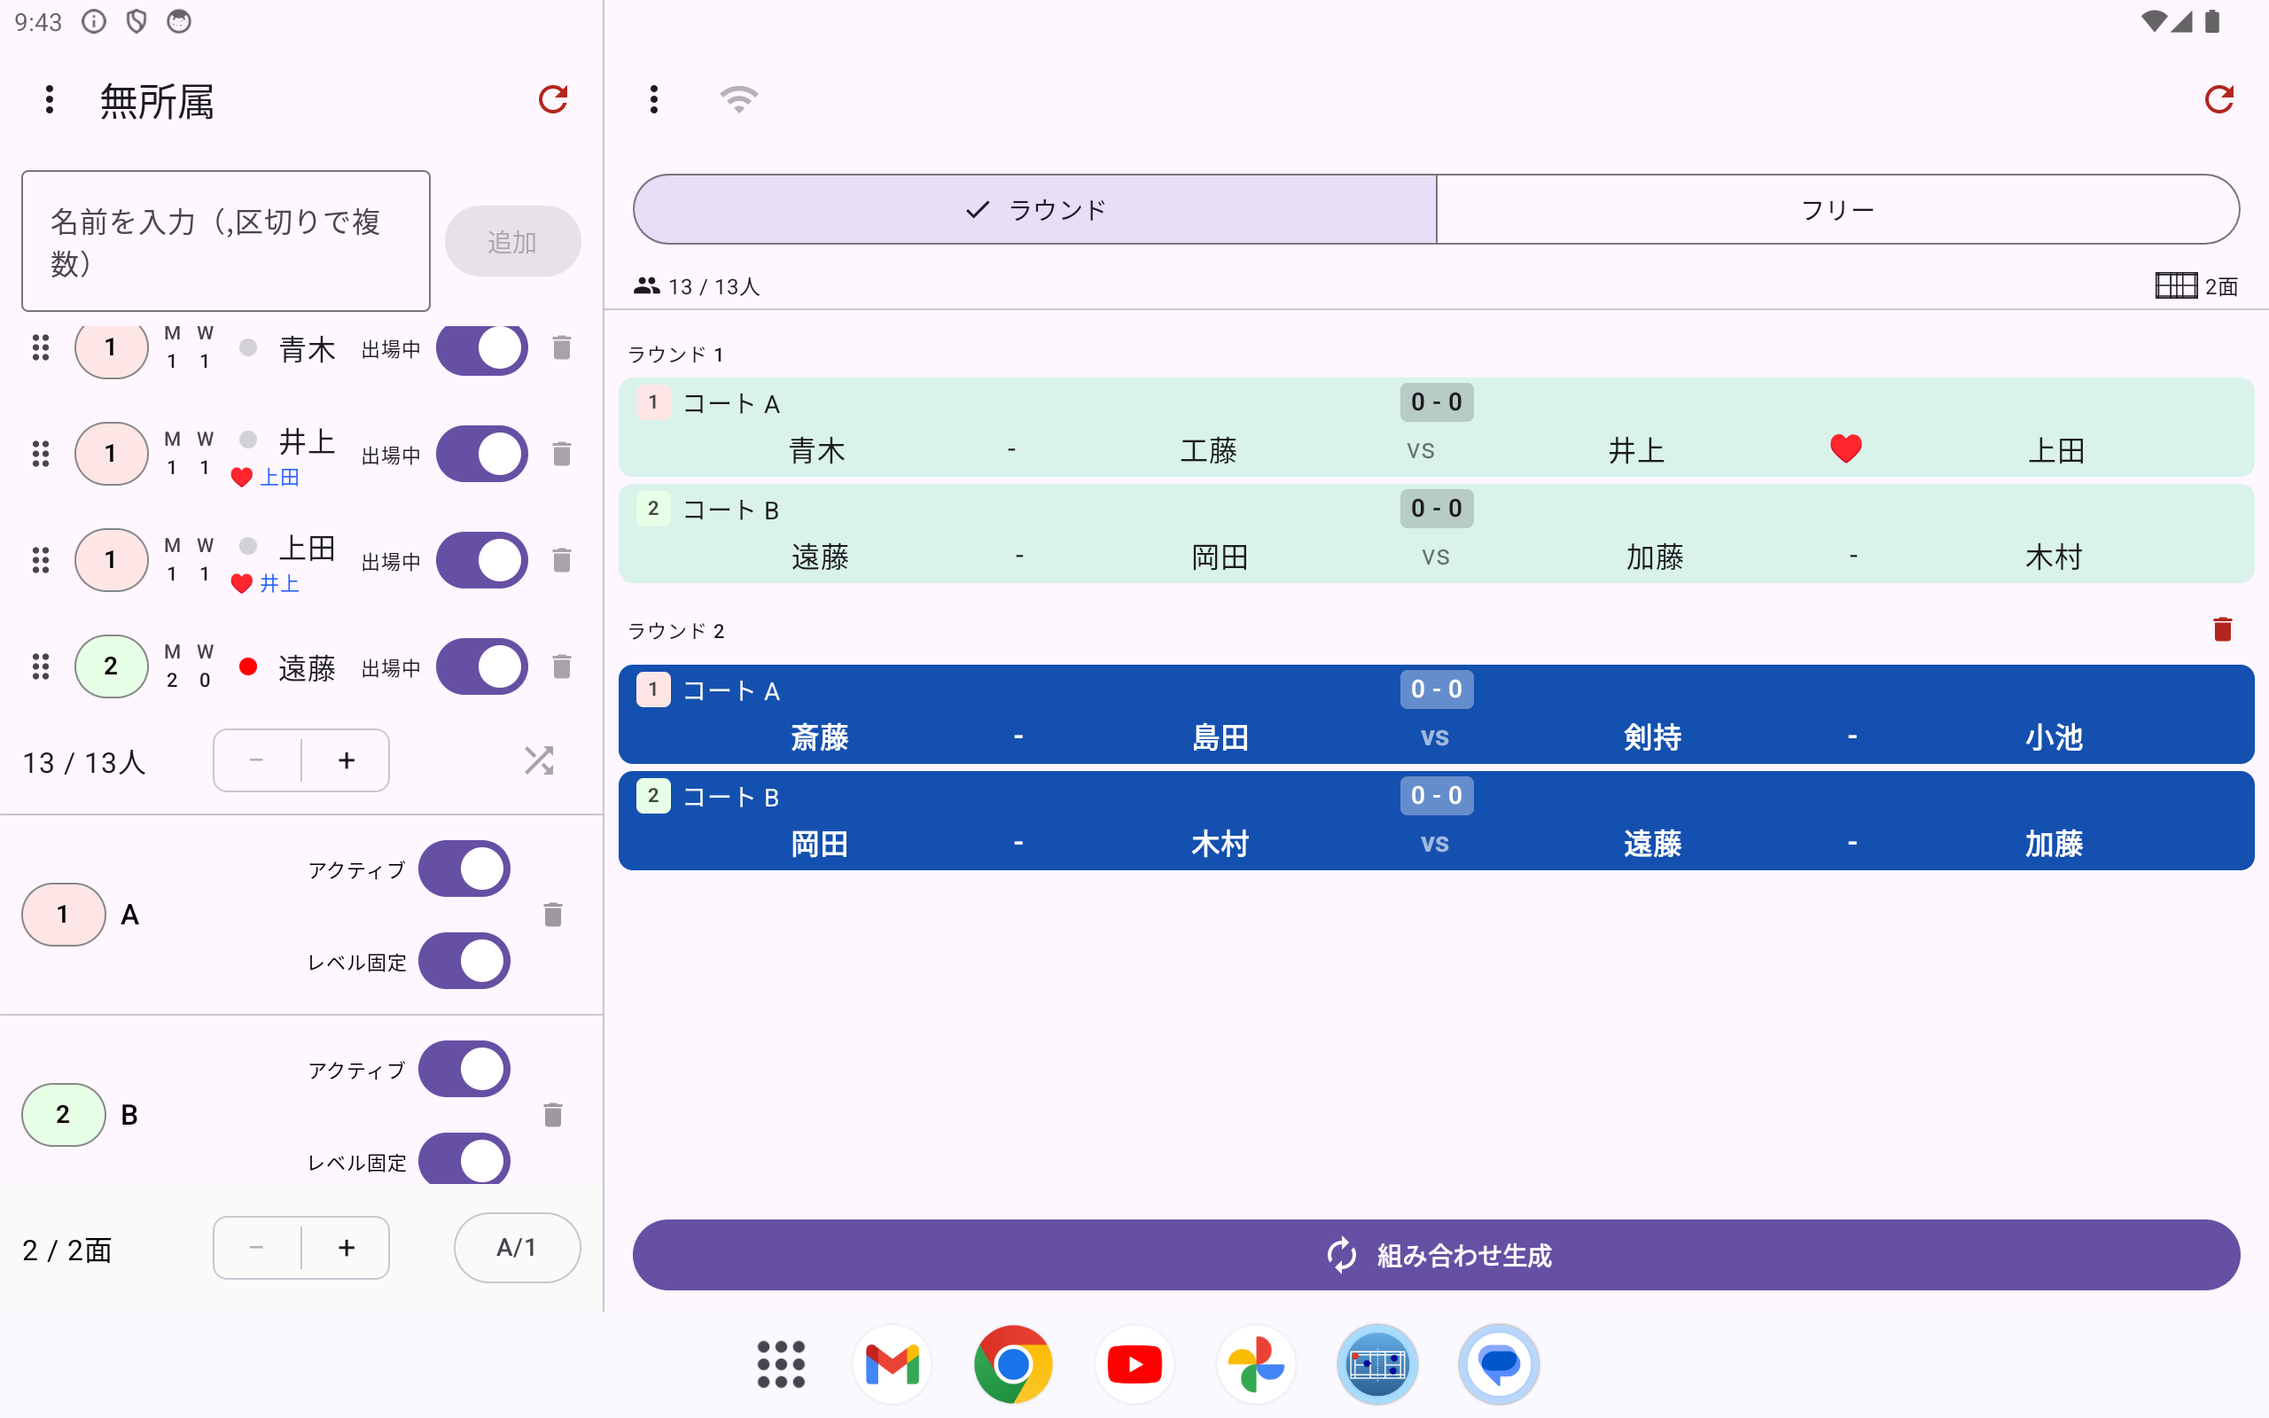
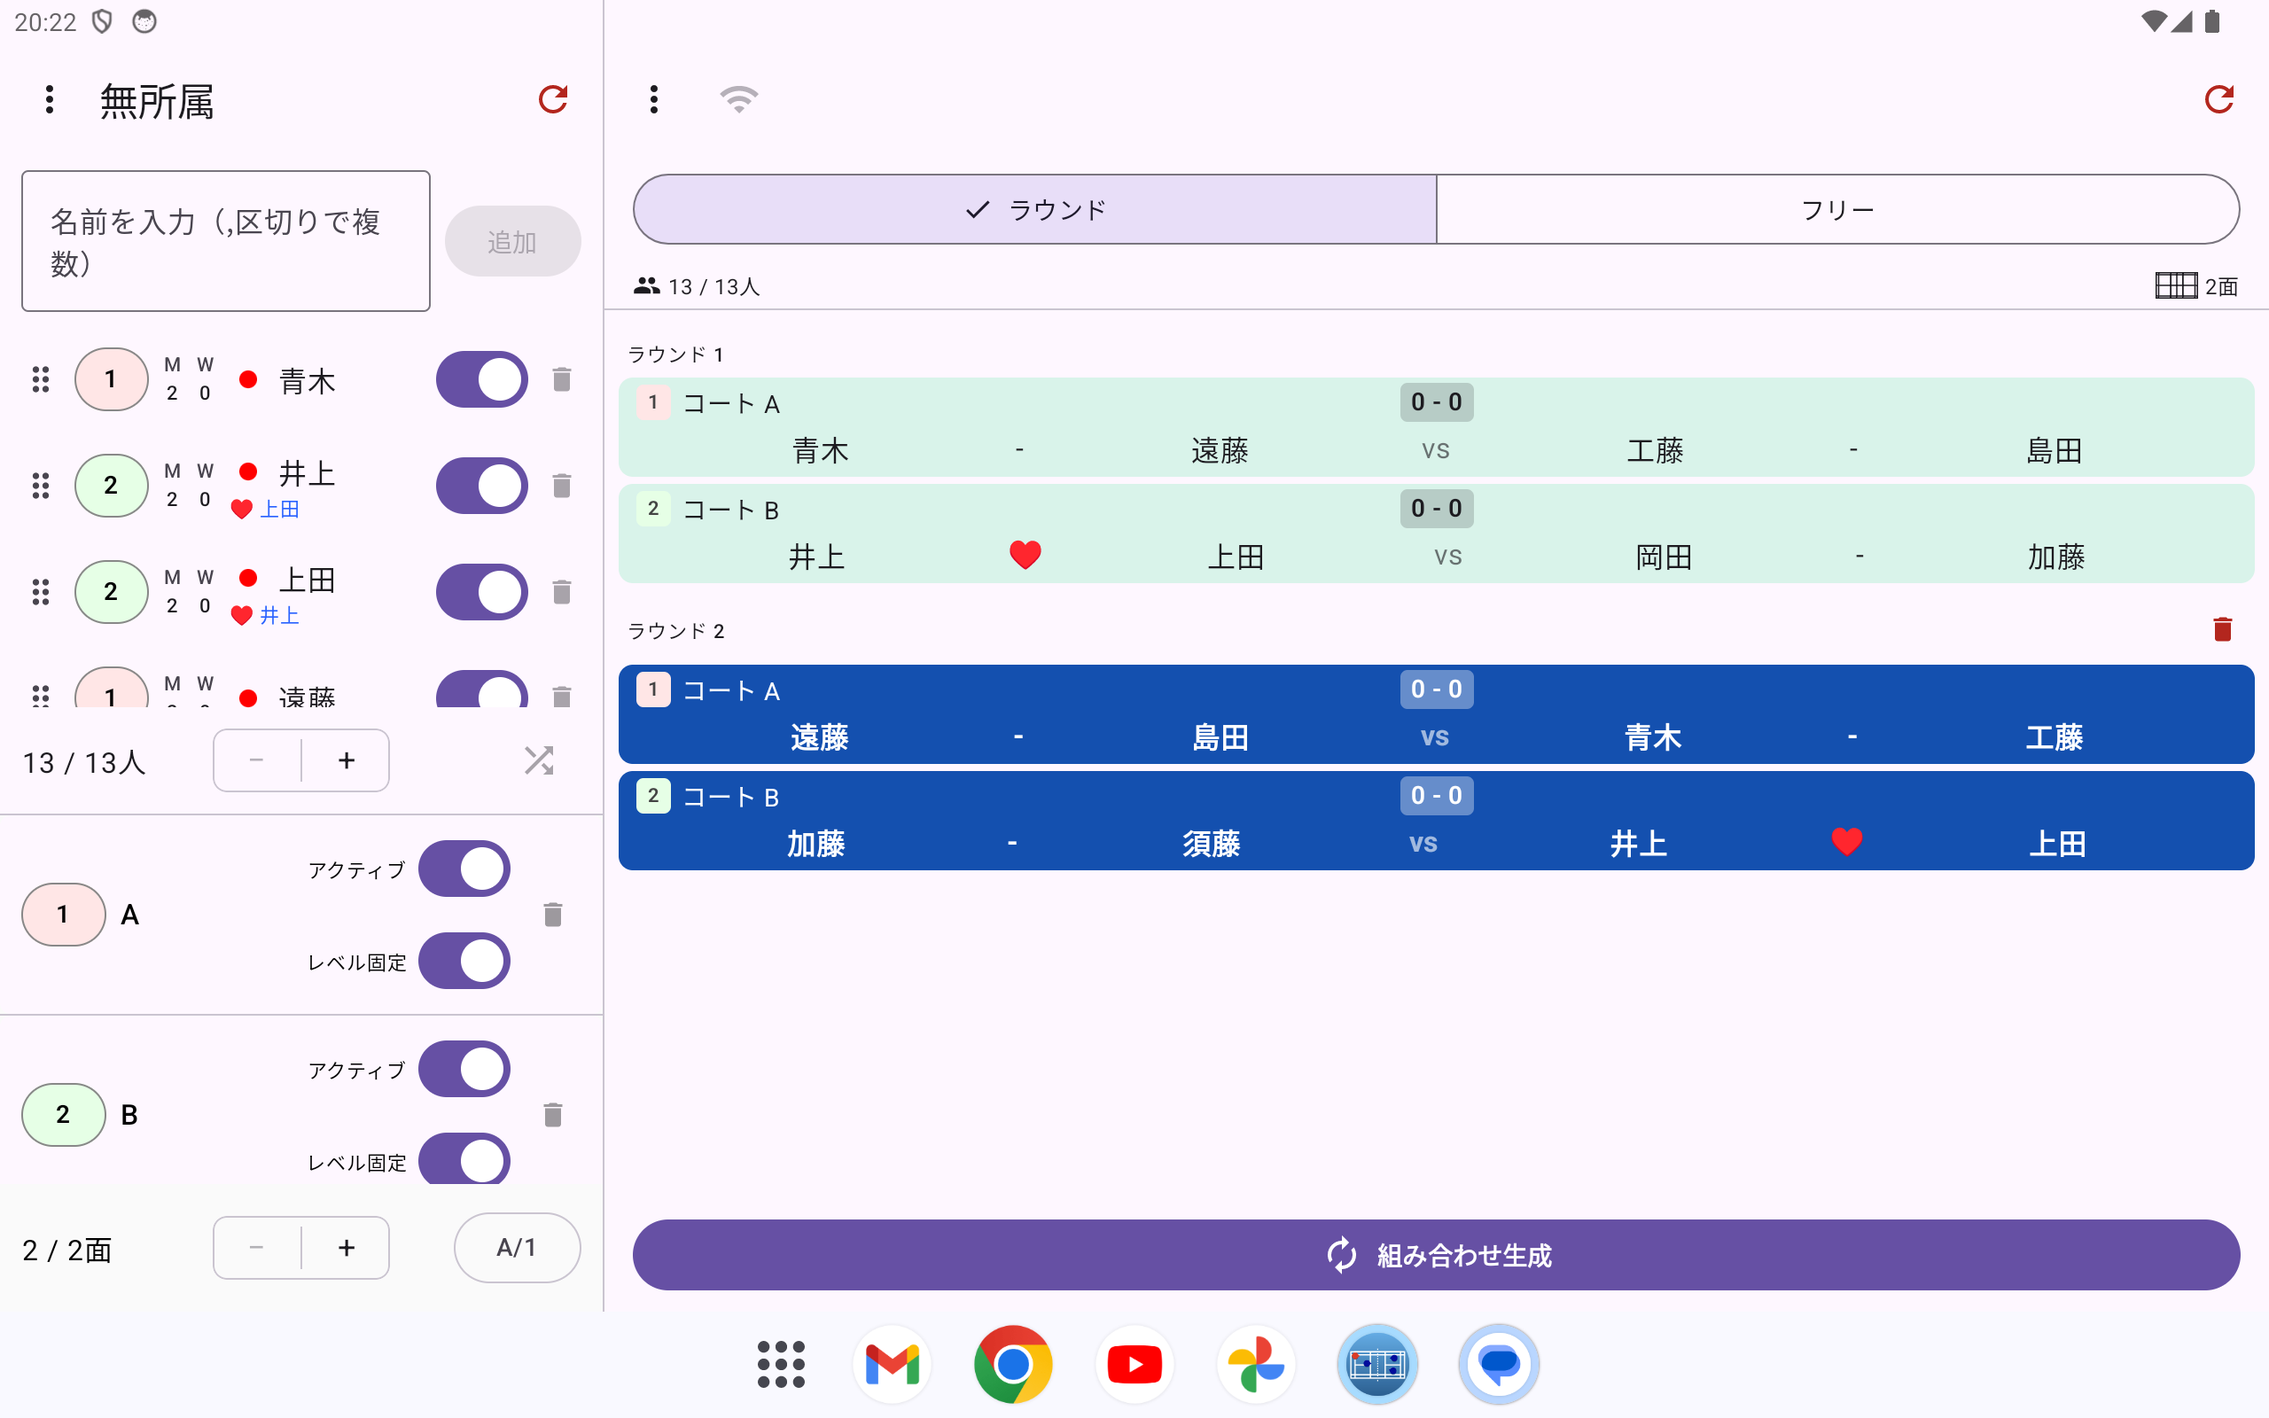
PairGen 1.2.24: 試合タブの分割表示を反映
試合タブに追加した分割表示（上段に最新ラウンドの組み合わせ、下段にプレイヤー
一覧）をヘルプに反映した。

- game-tab.html: 「3. 画面を分割して表示する」を新設し、以降の節を採番し直した。
  下段でできる操作（レベル変更・出場/休憩・ピン留め）と、できないこと（編集画面
  への遷移・並べ替え）、スマートフォン限定である旨を記載
- reverse-lookup.html: 「試合中にレベルや出場・休憩を変えるのにタブを行き来する
  のが面倒」「今の組み合わせとプレイヤー一覧を1画面で同時に見たい」の2項目を追加
- home.html: バッジを v1.2.24 / 対応 iOS v1.27.0 に更新。主な機能に分割表示を追加。
  更新内容は v1.2.23 からの差分（分割表示の追加と上部余白の修正）に変更
- update-history.html: v1.2.24 のエントリを追加

スクリーンショット:
- images/game-split-view.png: 新規（分割表示）
- images/home-main.png: 分割表示のものに差し替え
- images/home-tablet.png: 撮り直し。v1.2.23 より前の画像で、サイドバーの各行に
  「出場中」の文字が出たままだった（幅 340dp では名前を優先して省く仕様に変更済み）

Claude-Session: https://claude.ai/code/session_019m9Z5WbdFfmKQ8BjURNCcP

diff --git a/game-tab.html b/game-tab.html
@@ -36,14 +36,15 @@
     </ul>
   </li>
   <li><a href="#free-mode">2. フリーモード（コート単位で個別生成）</a></li>
-  <li><a href="#reset-scores">3. 試合結果をリセットする</a></li>
-  <li><a href="#score-input">4. スコア入力</a>
+  <li><a href="#split-view">3. 画面を分割して表示する</a></li>
+  <li><a href="#reset-scores">4. 試合結果をリセットする</a></li>
+  <li><a href="#score-input">5. スコア入力</a>
     <ul>
       <li><a href="#game-point">Game Point（勝利に必要な得点）を設定する</a></li>
       <li><a href="#next-game-setup">G1・G2 終了後の自動設定</a></li>
     </ul>
   </li>
-  <li><a href="#menu">5. 試合タブのメニュー</a>
+  <li><a href="#menu">6. 試合タブのメニュー</a>
     <ul>
       <li><a href="#share-session">セッションを共有</a></li>
       <li><a href="#mail-results">結果をメールする</a></li>
@@ -81,11 +82,29 @@
 <div class="ss"><img src="images/advanced-free-mode.png" alt="フリーモードのコート一覧"></div>
 <div class="tip">💡 コート一覧での終了/再開操作と、スコア入力画面の <strong>終了</strong> トグルは連動しています。どちらか一方を操作すればもう一方にも反映されます。</div>
 
-<h2 id="reset-scores">3. 試合結果をリセットする</h2>
+<h2 id="split-view">3. 画面を分割して表示する</h2>
+<p>試合タブ上部のモードセレクターの右にあるボタンをタップすると、画面が上下に分割され、<strong>上段に最新ラウンドの組み合わせ、下段にプレイヤー一覧</strong>が表示されます。もう一度タップすると、組み合わせ一覧だけを表示する従来の表示に戻ります。</p>
+<div class="ss"><img src="images/game-split-view.png" alt="上段に組み合わせ、下段にプレイヤー一覧を表示した分割表示"></div>
+<div class="note">⚠ この機能はスマートフォン向けの表示のみです。タブレット向けの2ペイン表示では、プレイヤー一覧が常に画面左側に表示されているため、このボタンはありません。</div>
+<p>試合中にレベルや出場・休憩を変更したい場合でも、プレイヤータブへ移動せずにその場で操作できます。下段の一覧では、プレイヤータブと同じように以下の操作が行えます。</p>
+<ul>
+  <li><strong>レベルの変更</strong> — 左端のレベルバッジをタップして巡回変更します</li>
+  <li><strong>出場／休憩の切り替え</strong> — 右端のトグルで切り替えます</li>
+  <li><strong>ピン留め</strong> — 名前の左の丸印をタップします（出場中のプレイヤーは赤い丸で表示されます）</li>
+</ul>
+<p>上段の行をタップすると、通常どおりスコア入力画面が開きます。アイコンでの操作も通常の表示と同じです。</p>
+<ul>
+  <li><strong>ラウンドモード</strong> — 上段の見出し「ラウンド N」の右にあるゴミ箱アイコンで<a href="#undo">直前の組み合わせを取り消せます</a>（生成した直後の1回のみ）</li>
+  <li><strong>フリーモード</strong> — 上段には各コートの現在の試合が表示され、行の右端のアイコンで<strong>終了</strong>／<strong>再開</strong>を切り替えられます</li>
+</ul>
+<div class="note">⚠ 下段の一覧からプレイヤーの編集画面（名前・写真・固定ペアの設定など）は開けません。編集する場合はプレイヤータブをご利用ください。並べ替えもできません（プレイヤータブで行ってください）。</div>
+<div class="tip">💡 この表示設定は端末ごとに記憶され、アプリを再起動しても保持されます。</div>
+
+<h2 id="reset-scores">4. 試合結果をリセットする</h2>
 <p>試合タブ右上の <code>↻</code>（リセット）アイコンをタップすると、確認アラート「ゲーム情報を削除」が表示されます。<strong>削除</strong> を選ぶと、これまでの試合結果がすべて削除されます（プレイヤー自体は削除されません）。</p>
 <div class="tip">💡 プレイヤーごと最初からやり直したい場合は、プレイヤータブの「プレイヤーのリセット」をご利用ください。</div>
 
-<h2 id="score-input">4. スコア入力</h2>
+<h2 id="score-input">5. スコア入力</h2>
 <p>試合タブの試合行をタップすると、スコア入力画面が開きます（通常は縦向きで表示され、端末を横向きにすると2カラムのレイアウトに切り替わります）。画面は上から順に、<code>Game Point</code>（勝利に必要な得点）の設定と <code>終了</code> トグル、そのコートで何ゲーム目かを切り替える <code>G1 / G2 / G3</code> ピッカーとここまでの勝ちゲーム数（<code>A: 0 - 0 :B</code>）、プレイヤー表示、<code>エンド</code> / <code>サーブ</code> ボタン、得点ボタンという構成です。勝ちゲーム数とゲームピッカーのスコアは、常に <strong>ペアA:ペアB</strong> の順で固定表示され、後述のエンドチェンジを行っても入れ替わりません。</p>
 <p>プレイヤー表示には、それぞれ <strong>ペアA</strong> / <strong>ペアB</strong>（内部の pairA・pairB に対応）のラベルが付きます。こちらはエンドチェンジで実際の左右位置が入れ替わると、表示も一緒に切り替わります。</p>
 <div class="ss"><img src="images/score-main.png" alt="スコア入力画面"></div>
@@ -132,7 +151,7 @@
 <h3 id="reset-score">スコアをリセットする</h3>
 <p>画面右上の <code>↻</code> アイコンから、そのゲームのスコアをリセットできます。</p>
 
-<h2 id="menu">5. 試合タブのメニュー</h2>
+<h2 id="menu">6. 試合タブのメニュー</h2>
 <p>試合タブ左上の「⋮」から、以下の機能を利用できます。</p>
 
 <h3 id="share-session">セッションを共有</h3>

diff --git a/home.html b/home.html
@@ -27,7 +27,7 @@
 <body>
 
 <h1>くみあぷ（PairGen）</h1>
-<p><span class="badge">v1.2.23</span><span class="badge">対応 iOS v1.26.0</span></p>
+<p><span class="badge">v1.2.24</span><span class="badge">対応 iOS v1.27.0</span></p>
 <div class="note">⚠ This help is available in Japanese only. Please use your browser's auto-translate feature.</div>
 <p>くみあぷ（PairGen）はバドミントン・テニスなどのダブルス競技向けに、組み合わせを自動生成する Android と iOS のアプリです。参加人数とコート数を設定するだけで、重複を最小限に抑えた組み合わせをすぐに生成できます。</p>
 
@@ -81,6 +81,7 @@
   <li>プレイヤー写真の登録</li>
   <li>メンバーの保存・グループ管理</li>
   <li>プレイヤー一覧に現在出場中かどうかを示す丸印を表示し、タップして「ピン留め」すると次の組み合わせで最優先に出場</li>
+  <li>組み合わせとプレイヤー一覧を1画面に並べる分割表示（スマートフォン）。試合中の出場・休憩の切り替えやレベル変更をその場で操作</li>
   <li>プレイヤー・グループの情報をJSONファイルとして書き出し／読み込み（機種変更時のデータ移行や、手元での一括編集に）</li>
 </ul>
 
@@ -116,12 +117,10 @@
   <li>試合結果メール本文は英語のみ（UI本体は多言語対応）</li>
 </ul>
 
-<h2>バージョン 1.2.23 更新内容（v1.2.20 からの変更点）</h2>
+<h2>バージョン 1.2.24 更新内容（v1.2.23 からの変更点）</h2>
 <ul>
-  <li>組み合わせの作り方を全面的に見直しました。そのラウンドに出る全員をまとめて見て、同じ相手と組む回数がいちばん少なくなる分け方を選びます。「特定の人といつまでも組めない」「同じ人とばかり組む」といった偏りが大幅に減り、直前のラウンドと同じペアが続けてできることもなくなります</li>
-  <li>続けて出ている人から順に休みに回るようになり、出場機会も均等になりました</li>
-  <li>表示言語に韓国語・中国語（簡体字・繁体字）・インドネシア語を追加しました。Android 13以降では、端末全体の言語とは別に、このアプリだけの表示言語を設定から選べます</li>
-  <li>タブレットで、プレイヤー一覧の名前が途中で改行されてしまう表示崩れを修正しました</li>
+  <li>試合タブに画面を上下に分けて表示するモードを追加しました。上に最新ラウンドの組み合わせ、下にプレイヤー一覧が並ぶので、試合中にレベルや出場・休憩を変えるのにプレイヤータブへ移動する手間がなくなります。上部のボタンでいつでも従来の表示に戻せます（下側の一覧からプレイヤー編集画面は開けません）</li>
+  <li>画面いちばん上に余分な余白が入っていた表示の不具合を修正しました。一覧に表示できる行数が少し増えます</li>
 </ul>
 
 <h2>フィードバック</h2>

diff --git a/reverse-lookup.html b/reverse-lookup.html
@@ -26,6 +26,7 @@
   <li><a href="players-tab.html#default-absent">常連が休みがちで、毎回チェックを外すのが面倒</a></li>
   <li><a href="players-tab.html#pin">早く帰ってしまうメンバーを優先的に試合に入れたい</a></li>
   <li><a href="players-tab.html#status">誰が今試合中か、休憩中かを一目で知りたい</a></li>
+  <li><a href="game-tab.html#split-view">試合中にレベルや出場・休憩を変えるのに、タブを行き来するのが面倒</a></li>
   <li><a href="players-tab.html#save-load">名簿を保存して次回も使い回したい</a></li>
   <li><a href="players-tab.html#groups">曜日や練習会ごとにメンバーを分けて管理したい</a></li>
   <li><a href="players-tab.html#file-operations">機種変更や引っ越しでプレイヤー・グループのデータを移行したい</a></li>
@@ -49,6 +50,7 @@
   <li><a href="game-tab.html#free-mode">コートが2面あるのにフリーモードに切り替えられない</a></li>
   <li><a href="game-tab.html#free-mode">フリーモードで組み合わせを間違えた</a></li>
   <li><a href="game-tab.html#generate">試合の途中でラウンドとフリーを切り替えたい</a></li>
+  <li><a href="game-tab.html#split-view">今の組み合わせとプレイヤー一覧を1画面で同時に見たい</a></li>
   <li><a href="game-tab.html#undo">組み合わせを間違えた／直前のをやり直したい</a></li>
   <li><a href="players-tab.html#reset-players">最初からやり直したい（プレイヤーも含めて全データリセット）</a></li>
   <li><a href="game-tab.html#reset-scores">試合結果だけ消したい（プレイヤーは残す）</a></li>

diff --git a/update-history.html b/update-history.html
@@ -16,6 +16,12 @@
 <p class="back-link"><a href="home.html">← ホームに戻る</a></p>
 <h1>更新履歴</h1>
 
+<h2>v1.2.24</h2>
+<ul>
+  <li>試合タブに画面を上下に分けて表示するモードを追加しました。上に最新ラウンドの組み合わせ、下にプレイヤー一覧が並ぶので、試合中にレベルや出場・休憩を変えるのにプレイヤータブへ移動する手間がなくなります。上部のボタンでいつでも従来の表示に戻せます（下側の一覧からプレイヤー編集画面は開けません）（iOS反映）</li>
+  <li>画面いちばん上に余分な余白が入っていた表示の不具合を修正しました。一覧に表示できる行数が少し増えます</li>
+</ul>
+
 <h2>v1.2.23</h2>
 <ul>
   <li>タブレットで、プレイヤー一覧の名前が途中で改行されてしまう表示崩れを修正しました（日本語以外の言語で起きていました）。画面が狭いときは「出場中／休憩中／欠席」の文字を省いて名前を優先表示します（スイッチの状態で判別できます）</li>
